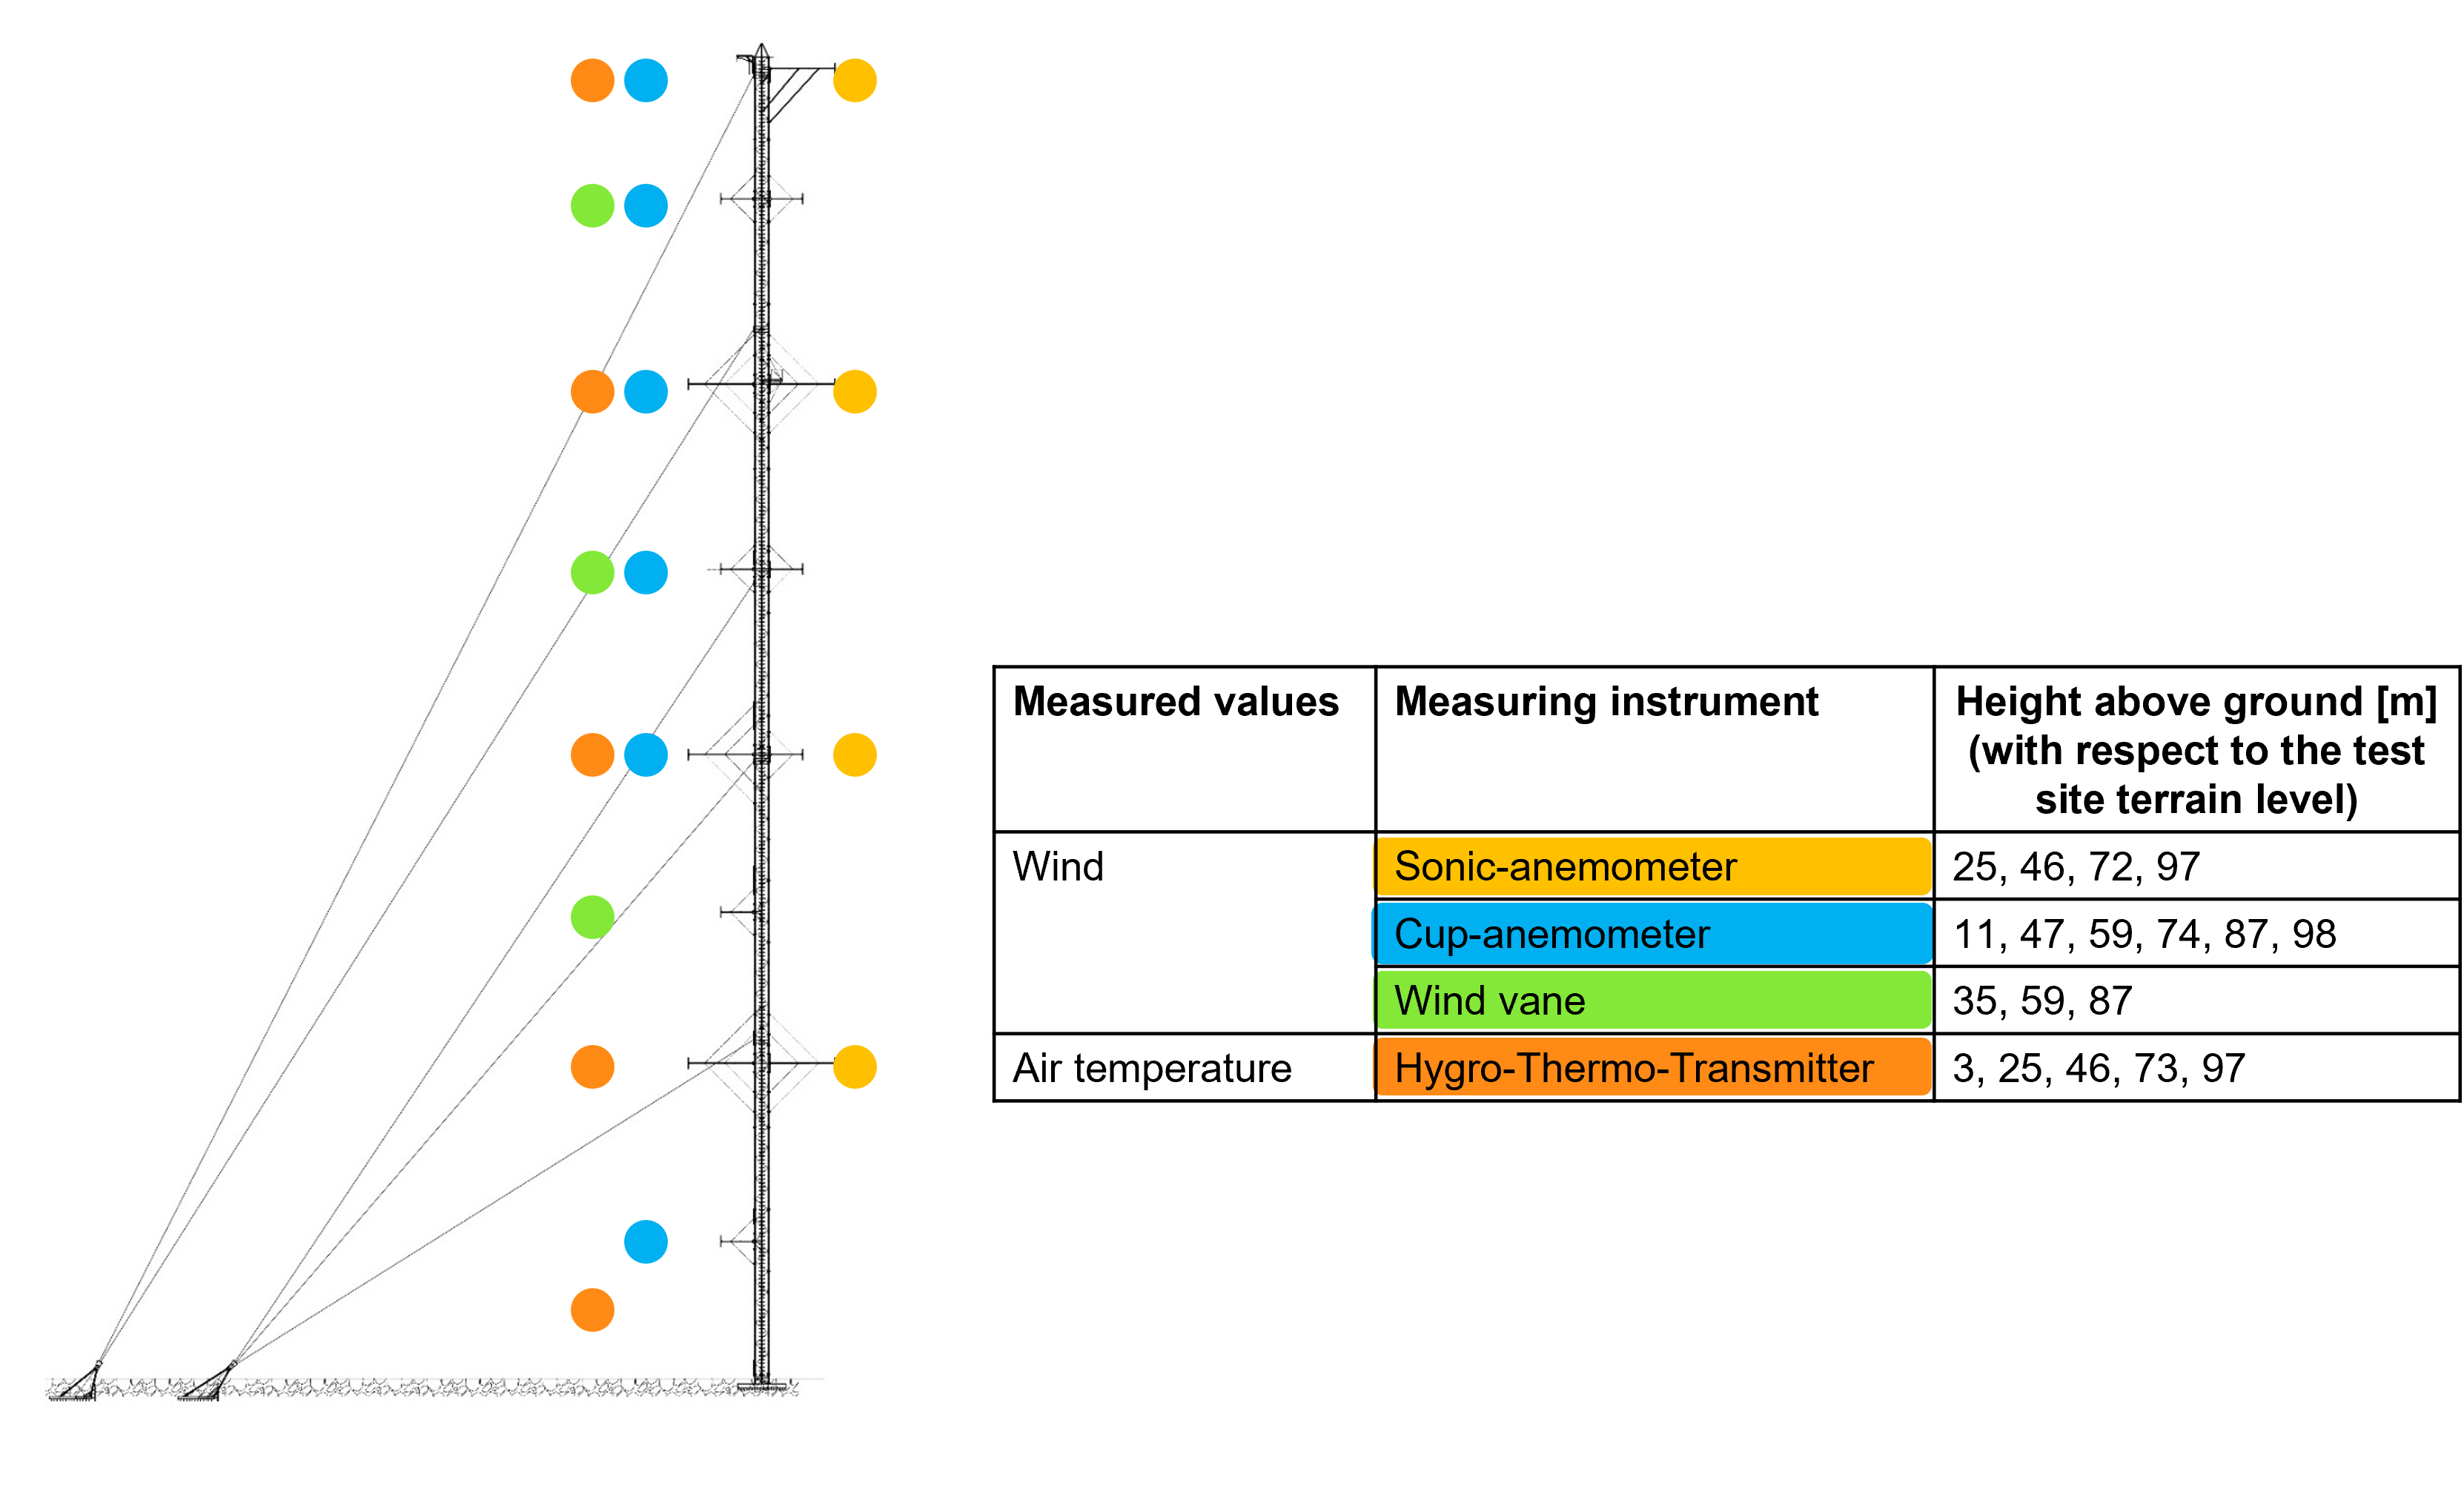
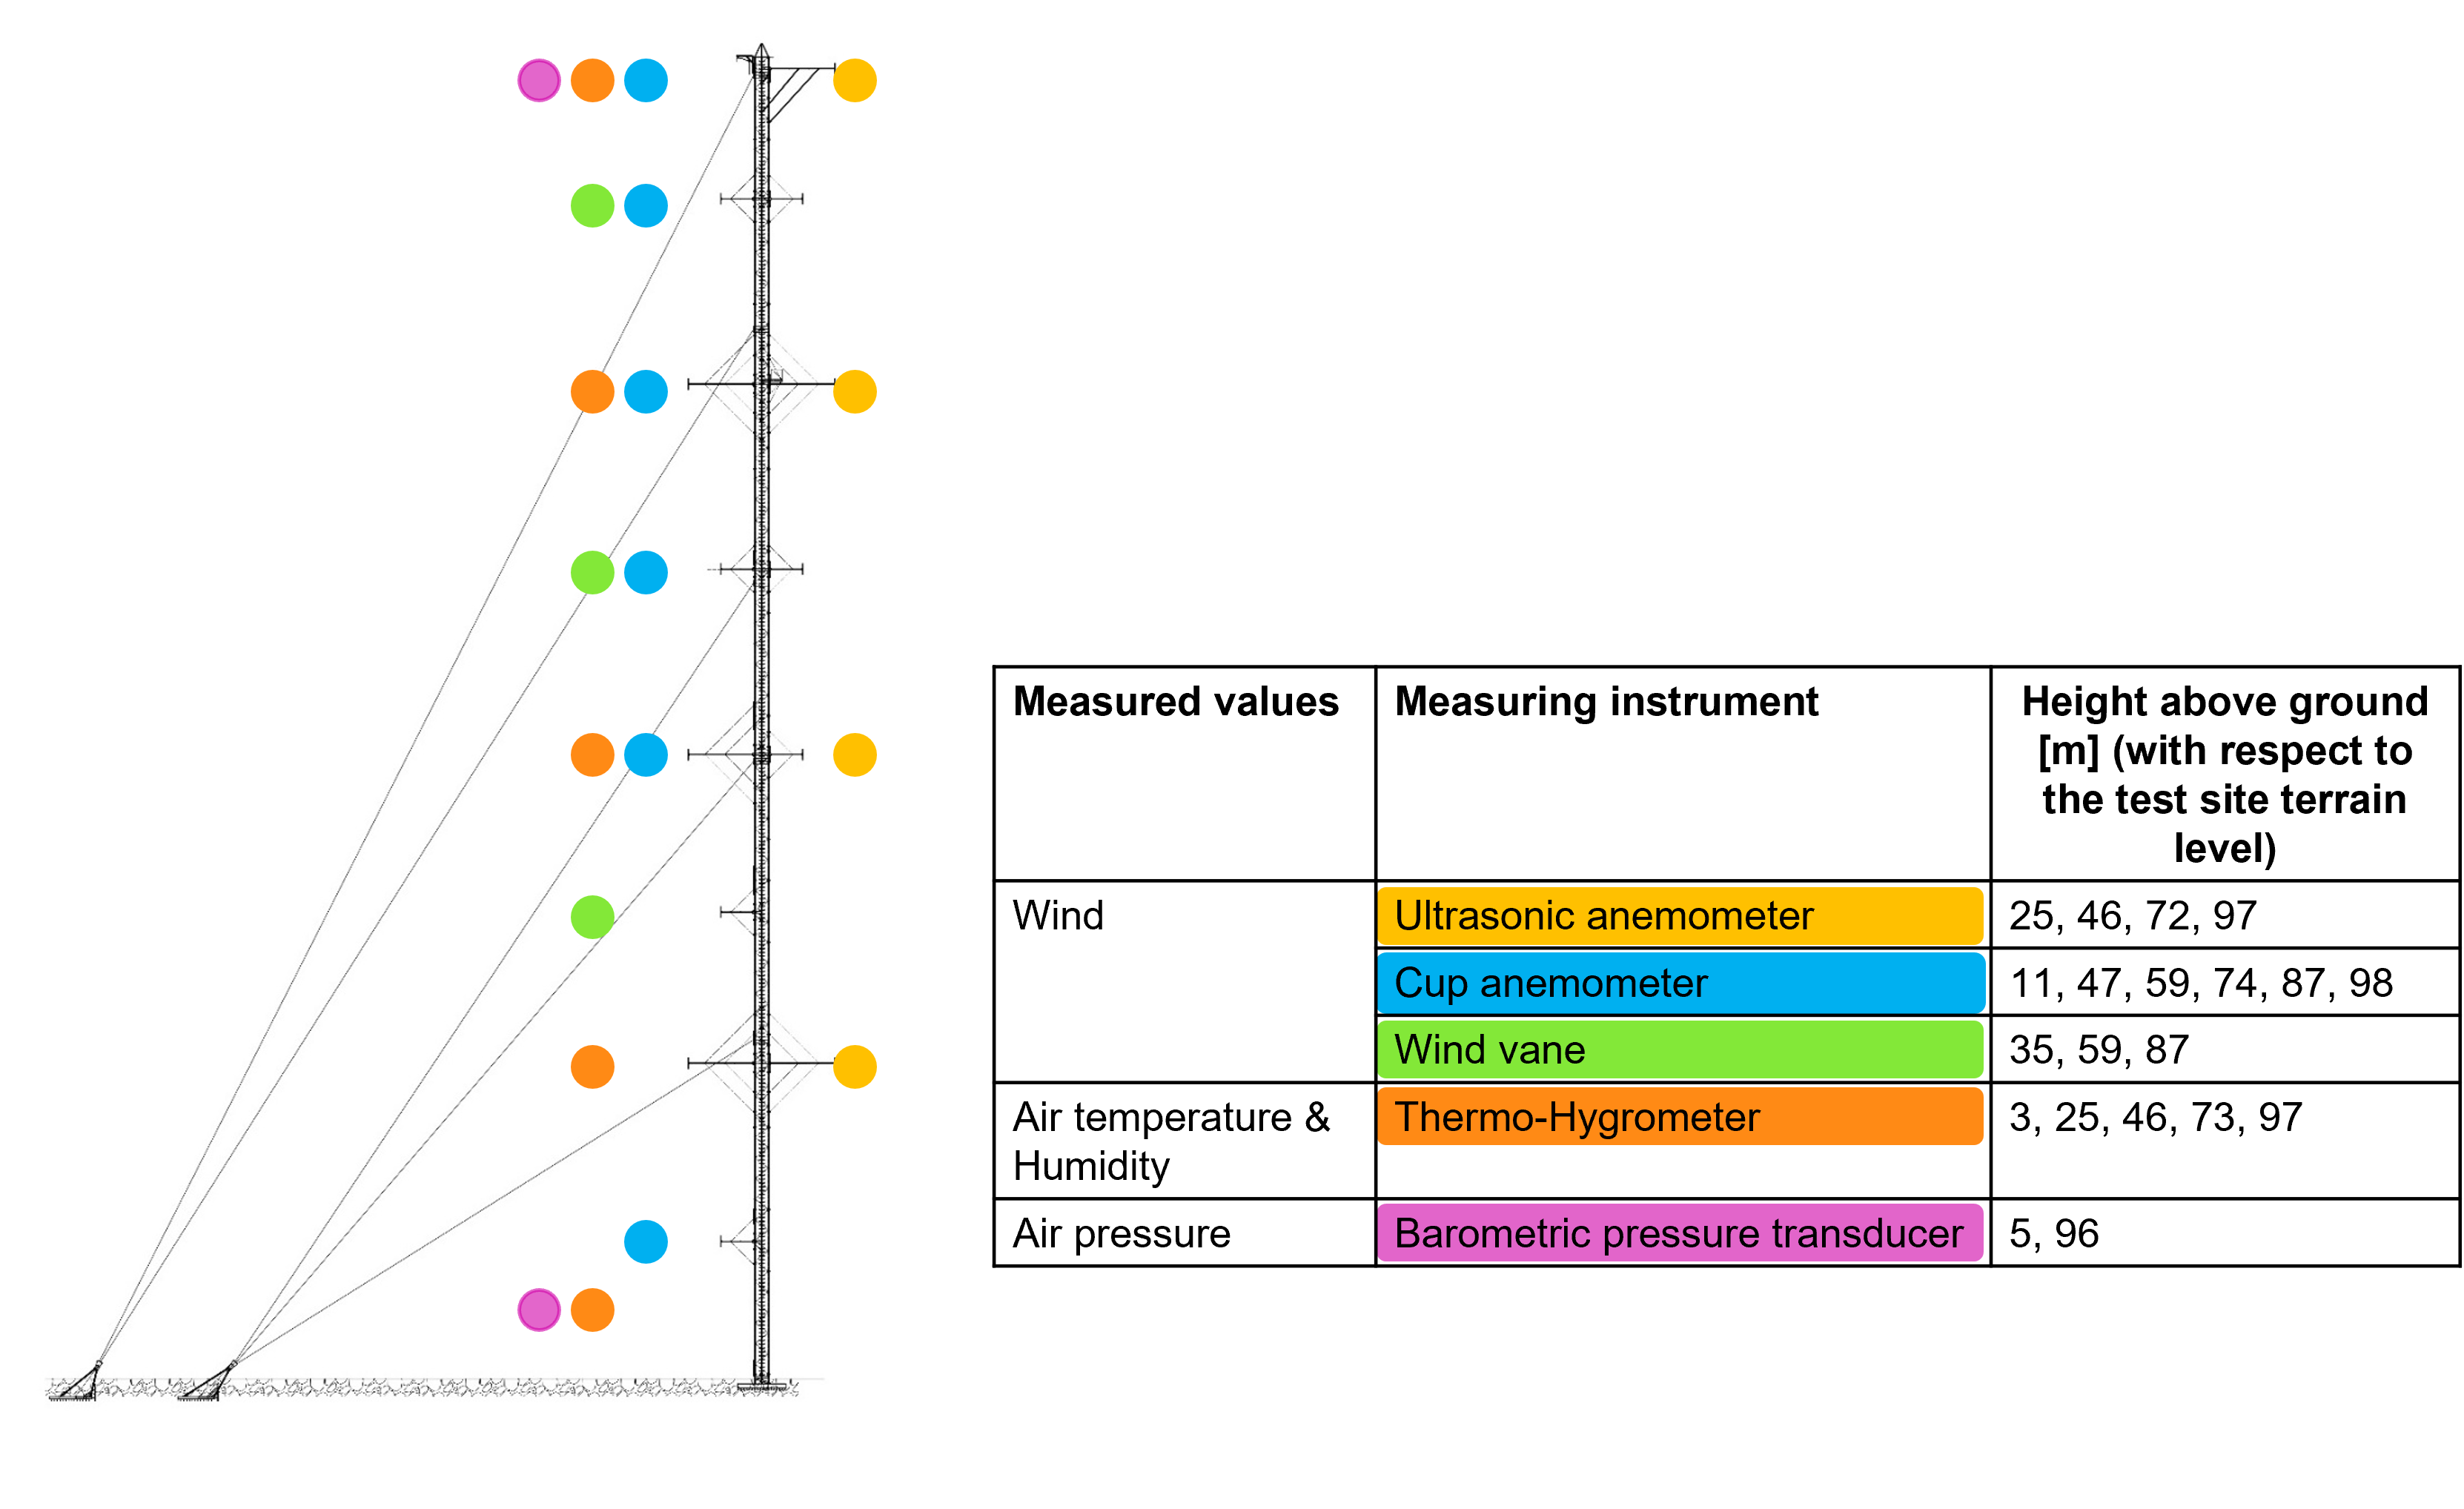
adding new content

diff --git a/docs/winsent.rst b/docs/winsent.rst
@@ -47,45 +47,51 @@ based on measurements at hub height at MMNW in 2025.
 Coordinates
 -----------
 
-All data are referenced to the WGS84 coordinate system. The center coordinates of the meteorological masts and turbine towers 
-are calculated from coordinates measured on site by a surveying office in March 2024. The coordinates of the lidar are 
-obtained from GPS measurements taken during the installation, and the values are verified using the GIS system.
+The current official reference system for position and elevation data in Germany is the German Reference Network (DREF91), 
+which is aligned with the European Terrestrial Reference System 1989 (ETRS89): ETRS89/DREF91/2016 + DHHN2016.
+The location is specified in longitude and latitude, and the elevation is given in meters relative to NHN. 
+Conversion to other reference systems is possible with very high accuracy.
+The center coordinates of the meteorological masts and turbine towers are calculated from coordinates measured 
+on site by a surveying office in March 2024. The coordinates of the lidar are obtained from GPS measurements 
+taken during the installation, and the values are verified using the GIS system.
 
 .. list-table:: 
    :header-rows: 1
 
    * - Structure
-     - Latitude
-     - Longitude
-     - Elevation (a.s.l.) [m]
+     - Longitude (°)
+     - Latitude (°) 
+     - Height above NHN (DHHN2016)
    * - RWTN
-     - Row 1 Col2
-     - Row 1 Col3
-     - Row 1 Col4
+     - 9.837730119766245
+     - 48.666210346923343
+     - 666.03
    * - RWTS
-     - Row 2 Col2
-     - Row 2 Col3
-     - Row 2 Col4
+     - 9.837125414111535	
+     - 48.664973120775961
+     - 666.61	
    * - MMNW
-     - Row 2 Col2
-     - Row 2 Col3
-     - Row 2 Col4
+     - 9.835916275260756	
+     - 48.666156314185706
+     - 665.00
    * - MMNE
-     - Row 2 Col2
-     - Row 2 Col3
-     - Row 2 Col4
+     - 9.839397041100227	
+     - 48.666276556003453
+     - 662.47
    * - MMSW
-     - Row 2 Col2
-     - Row 2 Col3
-     - Row 2 Col4
+     - 9.835293548617226
+     - 48.664941603518201	
+     - 664.57
    * - MMSE
-     - Row 2 Col2
-     - Row 2 Col3
-     - Row 2 Col4
+     - 9.838955754497034	
+     - 48.665024675916257	
+     - 664.91
    * - Lidar (L140)
      - Row 2 Col2
      - Row 2 Col3
      - Row 2 Col4
+
+# TODO: Koordinaten Lidar
 
 Meteorological measurement masts
 --------------------------------
@@ -94,6 +100,8 @@ All four measurement masts are equipped with a wide range of measuring instrumen
 shown in the schematic diagram below.
 
 .. image:: images/sensors_met_mast.png
+
+@HS Esslingen: hier fehlt jetzt noch der Niederschlagssensor, welchen wollt ihr denn verwenden?
 
 For the sake of simplicity, the benchmark assumes that all measuring instruments are positioned in the center 
 of the measuring mast and that all measuring masts are equipped identically. In reality, the measuring instruments 

diff --git a/docs/phase_I.rst b/docs/phase_I.rst
@@ -1,6 +1,8 @@
 Benchmark phase I
 =================
 
+# TODO: Höhenangaben checken, keine Referenz a.s.l. sondern stattdessen NHN
+
 Data processing
 ---------------
 
@@ -44,6 +46,8 @@ The stratification is assumed to be unstable if :math:`R_B<-0.17` and stable as 
 
 Inflow data
 -----------
+
+# TODO: Dateistruktur und Dateinamen aktualisieren, Höhenangaben checken, kein Verweis auf komplette Lidar Daten
 
 After applying the data filtering described above, the various datasets are analyzed (see following table). 
 For each dataset the number of 10-minute periods is calculated and a power-law curve is fitted to the data. 

diff --git a/docs/contact.rst b/docs/contact.rst
@@ -3,6 +3,8 @@ Contact
 
 - Benchmark lead: Andreas Rettenmeier, [email redacted]
 - IEA Wind Task 57 JAM Operating Agent: Regis Thedin, [email redacted]
+- Questions regarding the test site and data filtering: Sarah Lott, [email redacted]
+- Questions regarding the terrain data and data submission for phase I: Jonas Hohaus, [email redacted]
 
 Websites
 --------

diff --git a/docs/description.rst b/docs/description.rst
@@ -53,7 +53,7 @@ conditions
     - wind from west-northwest
     - high and low leaf area index
 time period
-    - 06/2025 – 03/2026
+    - 06/2025 - 03/2026
 input data
     - inflow data from the lidar in the valley
     - LAI values

diff --git a/docs/submissions.rst b/docs/submissions.rst
@@ -11,7 +11,7 @@ Variables to submit
 - TKE
 
 optional: 
-- potential tempetature
+- potential temperature
 - pressure 
 - humidity 
 - precipitation 